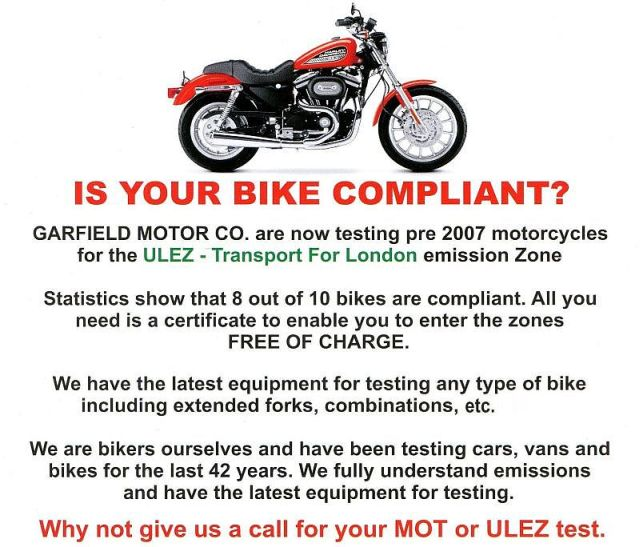
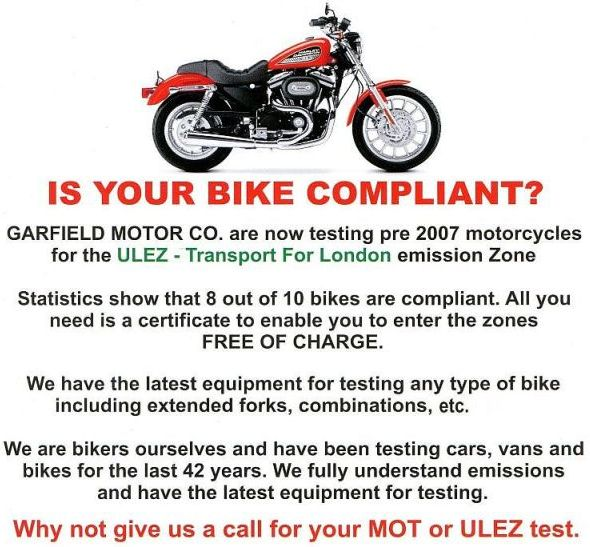
Add files via upload

diff --git a/ULEZ.html b/ULEZ.html
@@ -115,7 +115,7 @@ background="motorcycle outline pale.jpg" bgColor=#d6d6d6 align=center>
   <tbody>
   <tr>
     <td colspan="2">
-      <p align="center"><img border="0" hspace="0" src="ULEZ flyer.jpg" width="640" 
+      <p align="center"><img border="0" hspace="0" src="ULEZ flyer.jpg" width="590" 
       height=547></p></td></tr>
   <tr>
     <td>
